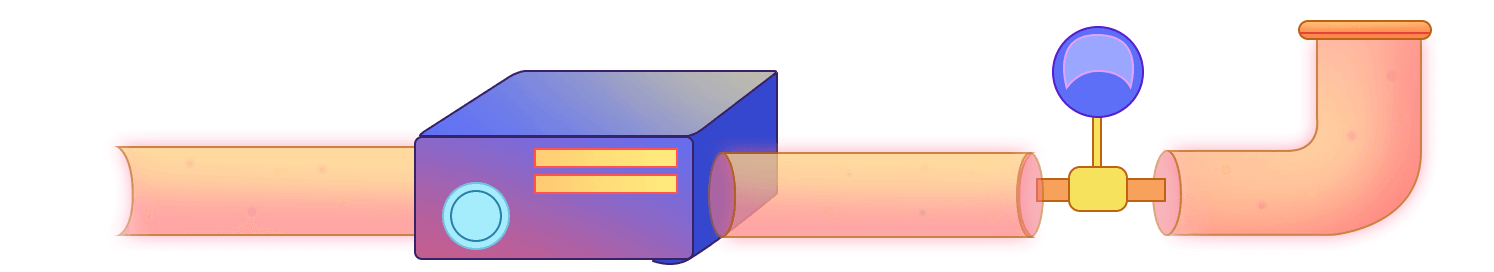
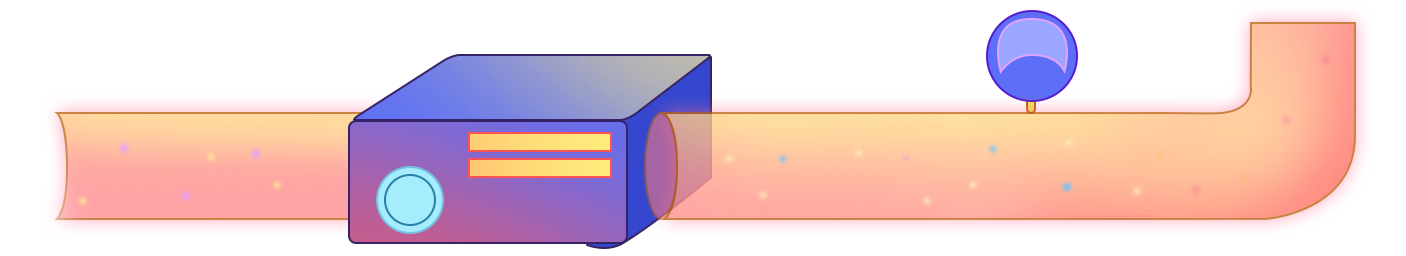
fix(game): ball

Changed region(s): [[0.0306, 0.0312, 0.9787, 1.0], [0.1223, 0.75, 0.1529, 0.7812]]

diff --git a/src/views/Game.vue b/src/views/Game.vue
@@ -257,8 +257,8 @@ export default {
     const Pipe = [
       [330 * p, 558 * p, 2, 27 * p],
       [355 * p, 570 * p, 2, 50 * p],
-      [178 * p, 575 * p, 300 * p, 2],
-      [188 * p, 595 * p, 330 * p, 2]
+      [178 * p, 570 * p, 300 * p, 2],
+      [191 * p, 597 * p, 325 * p, 2]
     ]
     // 第二页直板子
     const secondPageHorizontalPipe = [
@@ -320,8 +320,8 @@ export default {
         Bodies.rectangle(...item, {
           isStatic: true,
           render: {
-            fillStyle: 'rgba(255, 255, 255, 0)',
-            strokeStyle: 'rgba(255, 255, 255, 0)'
+            fillStyle: 'rgba(255, 255, 255, 1)',
+            strokeStyle: 'rgba(255, 255, 255, 1)'
           }
         })
       )
@@ -362,9 +362,9 @@ export default {
       return Bodies.circle(
         375 / 2,
         100,
-        9 * p,
+        10 * p,
         {
-          friction: 0.1,
+          friction: 0.04,
           restitution: 0.2,
           frictionAir: 0.1,
           render: {
@@ -467,9 +467,10 @@ export default {
   }
   .bac1-icon2 {
     position: absolute;
-    top: 1076px;
-    width: 747px;
-    height: 136px;
+    left: 36px;
+    top: 1084px;
+    width: 703px;
+    height: 128px;
     background-image: url("../assets/img/game/bac1-icon2.png");
     background-size: 100%;
     z-index: 3;
